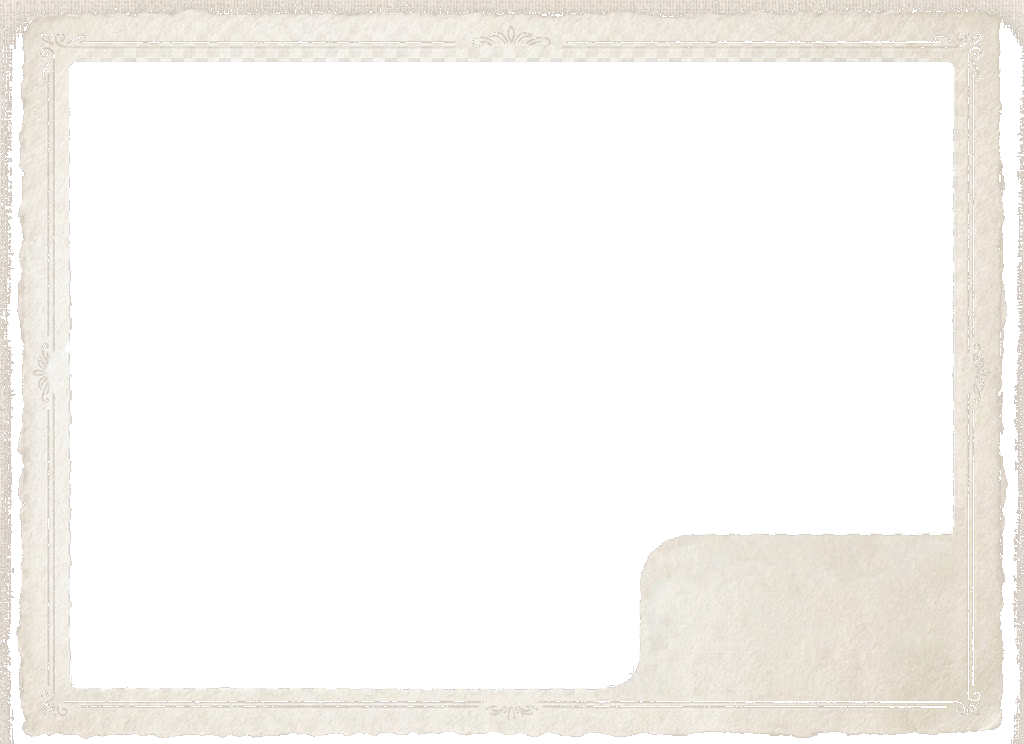
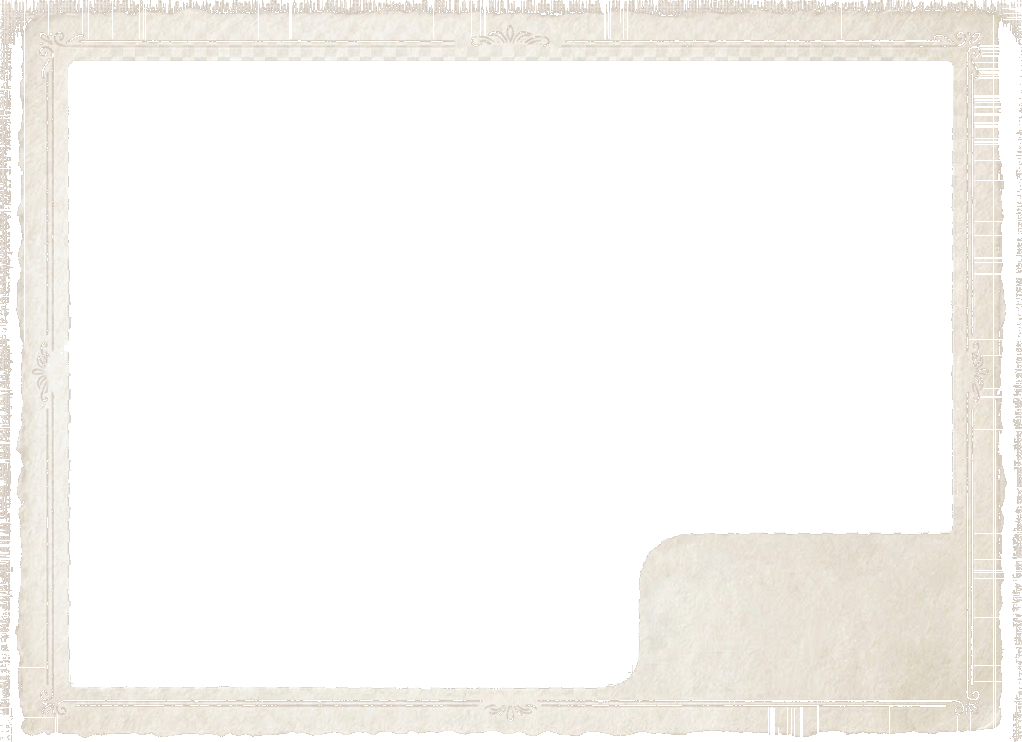
Fix parchment frame edge transparency on top and sides.
Strip flat cream margins in the PNG preprocessor so the frame blends with the dashboard background on all edges, not just the bottom.

diff --git a/app/components/PhotoFrames.tsx b/app/components/PhotoFrames.tsx
@@ -72,7 +72,7 @@ export const GRADIENT_RIM_FRAME_LANDSCAPE_SRC =
 
 /** parchment-frame-landscape.png (prepare-parchment-frame.mjs) 사진 구역 inset */
 export const PARCHMENT_FRAME_INSET_CLASS =
-  'left-[6.3%] right-[6.8%] top-[8.3%] bottom-[7.3%]';
+  'left-[6.3%] right-[6.8%] top-[8.2%] bottom-[7.1%]';
 
 export const PARCHMENT_FRAME_LANDSCAPE_SRC =
   '/photo-frames/parchment-frame-landscape.png';